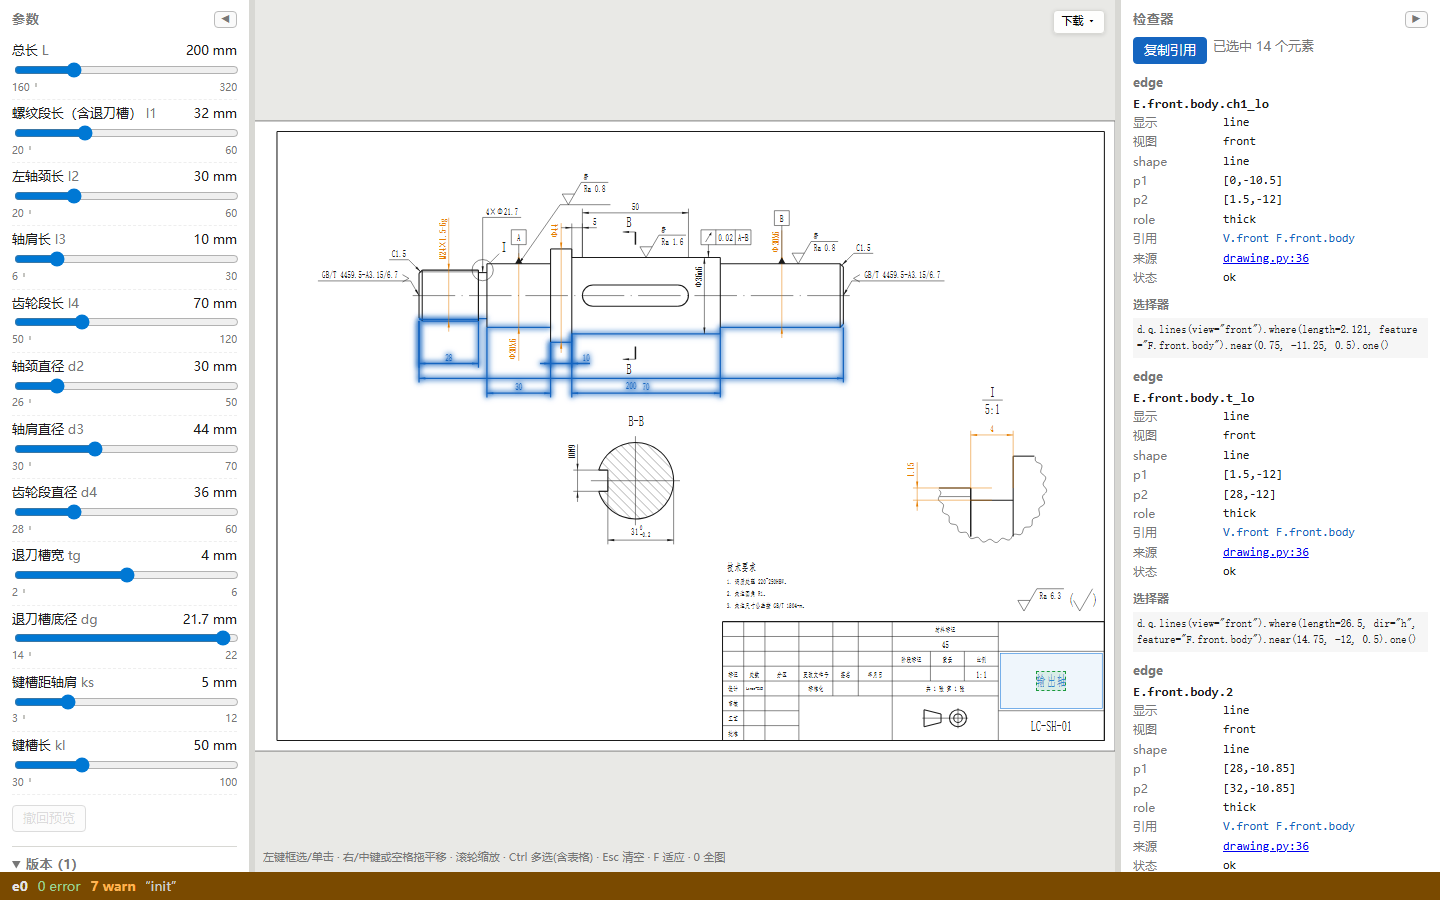
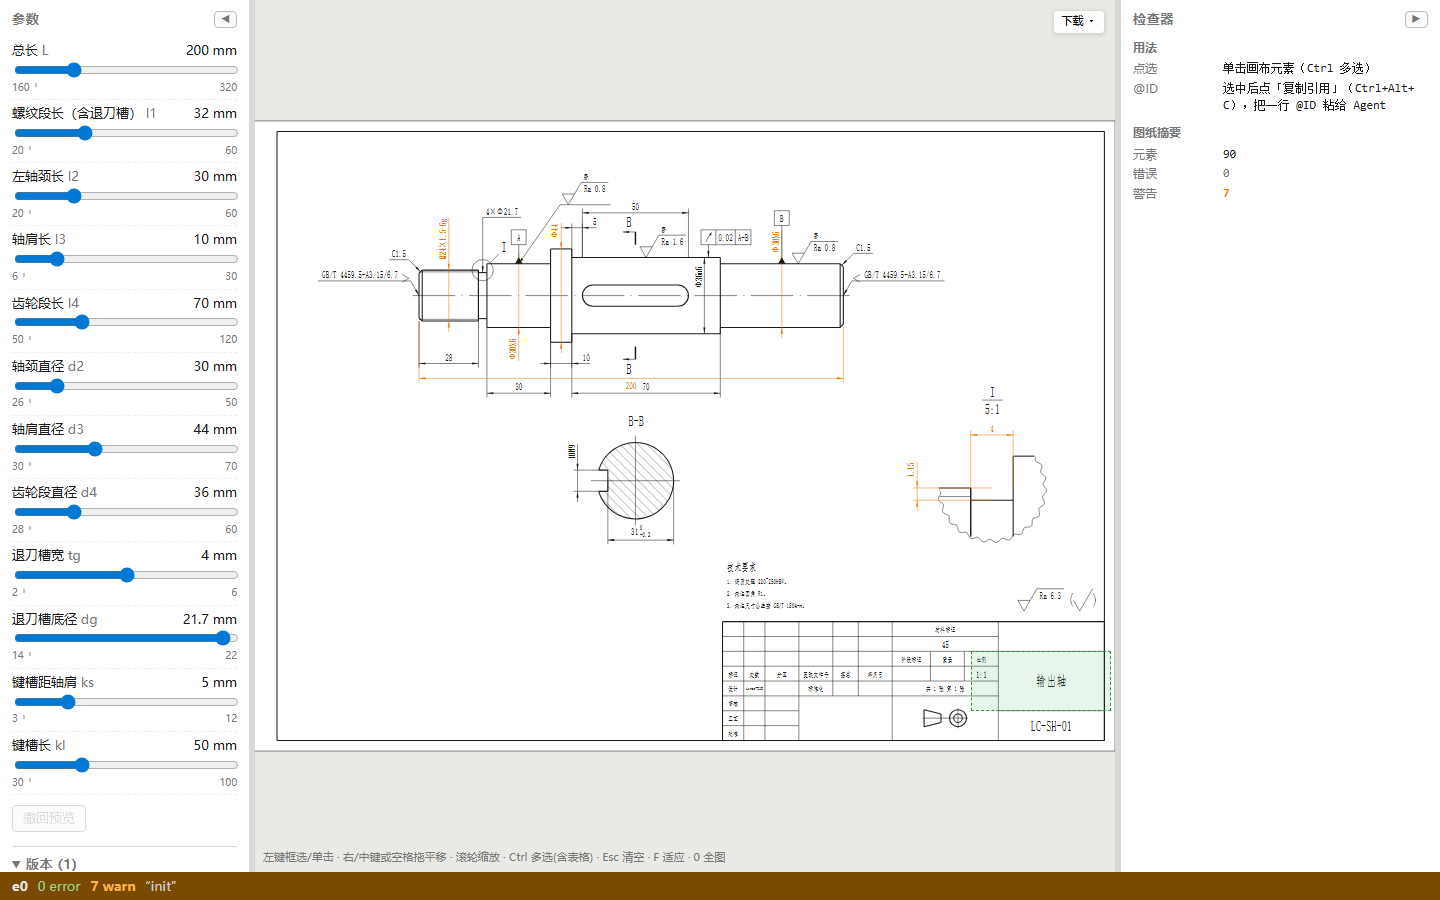
fix(viewer): blur focused controls on canvas mousedown and fix pan/blur edge cases

diff --git a/src/linercad/viewer/viewer.js b/src/linercad/viewer/viewer.js
@@ -242,6 +242,10 @@ function marqueeHits(d, ev) {
 }
 canvas.addEventListener("mousedown", (ev) => {
   if (!S.svg) return;
+  suppressCtx = false;
+  if (document.activeElement && document.activeElement !== document.body && document.activeElement.blur) {
+    document.activeElement.blur();
+  }
   if (ev.button === 1 || ev.button === 2 || (ev.button === 0 && spaceDown)) {
     if (ev.button !== 2) ev.preventDefault();
     down = { mode: "pan", button: ev.button, x: ev.clientX, y: ev.clientY, vb: S.vb.slice(), moved: false };
@@ -281,7 +285,10 @@ window.addEventListener("mouseup", (ev) => {
   const d = down; down = null;
   $("marquee").hidden = true;
   if (d.mode === "pan") {
-    if (d.button === 2 && Math.hypot(ev.clientX - d.x, ev.clientY - d.y) > 4) suppressCtx = true;
+    if (d.button === 2 && d.moved) {
+      suppressCtx = true;
+      setTimeout(() => { suppressCtx = false; }, 0);
+    }
     if (d.moved) viewChanged();
     return;
   }
@@ -319,7 +326,7 @@ window.addEventListener("keydown", (ev) => {
   if (ev.key === "0" && idle && S.svg) { setVB(S.full.slice()); viewChanged(); }
 });
 window.addEventListener("keyup", (ev) => { if (ev.code === "Space") spaceDown = false; });
-window.addEventListener("blur", () => { spaceDown = false; });
+window.addEventListener("blur", () => { spaceDown = false; down = null; $("marquee").hidden = true; });
 
 // nearest element under the cursor: geometric picking on cached child boxes (hairline strokes are
 // too thin for the browser's own hit-testing)

diff --git a/tests/test_viewer.py b/tests/test_viewer.py
@@ -1110,6 +1110,8 @@ def test_r4_marquee_selection_hooks_and_pan_bindings():
         "auxclick",
         "elBoxes",
         "已选 ",
+        "activeElement.blur()",
+        '$("marquee").hidden = true',
     ):
         assert needle in js, needle
 

diff --git a/docs/milestones/v0.1.3/PROGRESS.md b/docs/milestones/v0.1.3/PROGRESS.md
@@ -5,7 +5,7 @@
 
 | 卡号 | Issue | 分支 | PR | 状态 | 门禁结果 | Review 轮次 | 备注 |
 |---|---|---|---|---|---|---|---|
-| C1 | #164 | `v013/viewer` | 待开 | 已过本地全量门禁与 Playwright 实测，待独立评审 | `pytest`: 1572 passed, 1 skipped；`ruff check/format`: pass；`evals --baseline`: 40/40, regressions=[]; Playwright E2E: pass | 0 | 5 commits（R1–R8）+ 验收证据与截图 |
+| C1 | #164 | `v013/viewer` | 待开 | R1 review 1 major + 3 minor 已修复，待复审 | `pytest`: 1572 passed, 1 skipped；`ruff`: pass；`evals`: 40/40, regressions=[]; Playwright E2E: pass | 1 (待 R2) | R1 捕获焦点未 blur / 右键抑制 / blur 重置 / 截图时机，已修复 |
 | C2 | — | `v013/templates` | — | 未开工 | — | — | 等 PR-1 合入并试用确认 |
 | C3 | — | `v013/style-logo` | — | 未开工 | — | — | 等 PR-1 合入并试用确认 |
 | R16 (PR-4) | — | `v013/release` | — | 未开工 | — | — | C1–C3 全部合入后收口 |

diff --git a/docs/milestones/v0.1.3/evidence/c1/pr1-acceptance.md b/docs/milestones/v0.1.3/evidence/c1/pr1-acceptance.md
@@ -102,7 +102,7 @@
   - `title_cell_selected`: `["T.title.company"]`
   - `downloads`: `LC-SH-01-e0.dxf` (109574 B) / `LC-SH-01-e0.pdf` (158114 B) / `LC-SH-01-e0.png` (52554 B)
 - 截图证据：
-  - L→R 蓝实线框选：`marquee-window.png`
-  - R→L 绿虚线框选（默认跳过 `table.cell`，检查器文案「已选中 14 个元素」）：`marquee-crossing.png`
+  - L→R 蓝实线框选（拖拽中截图）：`marquee-window.png`
+  - R→L 绿虚线框选（拖拽中截图，默认跳过 `table.cell`）：`marquee-crossing.png`
   - 单击空标题栏格 `T.title.company`：`title-cell-picked.png`
 
